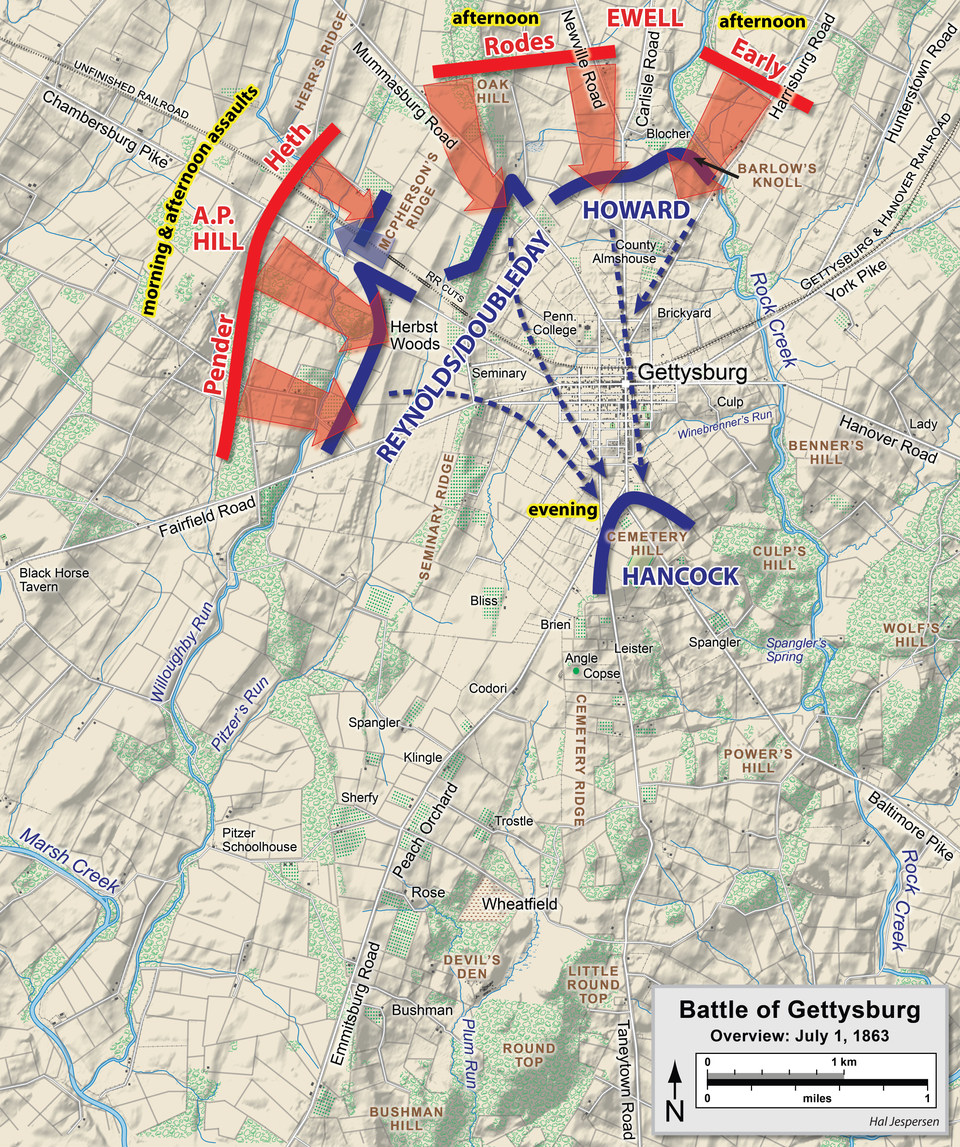
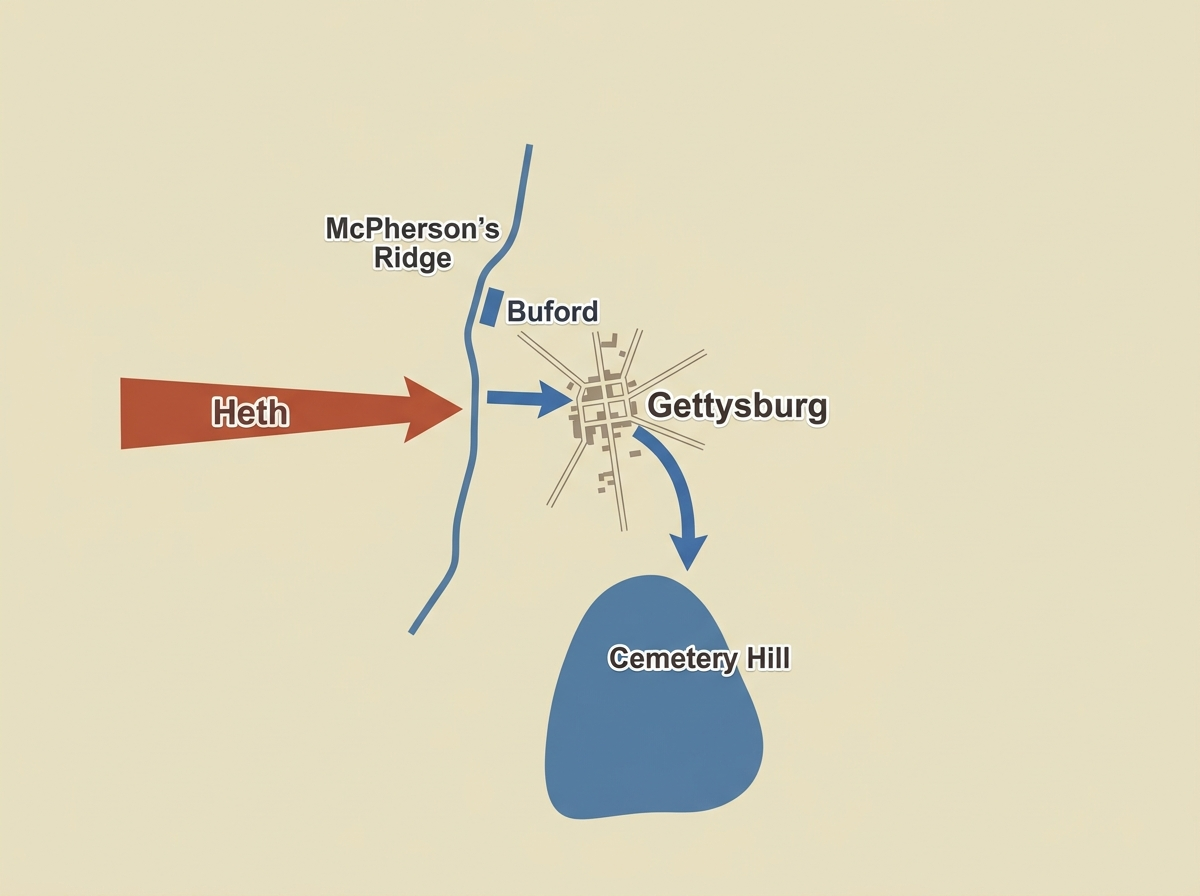
phase-2 war: convert day 1, day 3 & campaign maps to clean matched style
Completes the Gettysburg map conversion — all seven maps now the flat-schematic
prose-matched style (campaign, day1, day2 overview, LRT, wheatfield, culps, day3).

- day1: Buford's stand at McPherson's Ridge, Heth's attack, retreat to Cemetery Hill
- day3: Pickett's Charge from Seminary Ridge to The Angle on Cemetery Ridge
- campaign: Lee up the Shenandoah Valley, Meade shadowing east of the mountains
- Harden battle-map style: color names (BLUE/RUST/RED) are ink instructions,
  never labels (day1 first roll printed 'RUST' as text).
- Fix the three remaining stale 'Hal Jespersen' credits.

diff --git a/src/app/war-civil-war/eastern/gettysburg/s/[section]/section-narrative.tsx b/src/app/war-civil-war/eastern/gettysburg/s/[section]/section-narrative.tsx
@@ -44,7 +44,7 @@ const GB_NARR: Record<string, Narr> = {
       { p: 'They left for the north on June 3rd.', i: true },
       { h: 'Three weeks, three states', eyebrow: 'The march' },
       { p: 'Lee took the Shenandoah Valley north — the same broad green corridor that Stonewall Jackson (South) had ridden up and down for two years. By the third week of June the Army of Northern Virginia was loose in Pennsylvania, an army of seventy thousand men strung out across forty miles of farm country, requisitioning shoes and flour and not, by Lee’s strict orders, burning anything they did not need to.' },
-      { fig: '/war-img/gettysburg-campaign.png', cap: 'The march north: Lee takes the Shenandoah Valley into Pennsylvania while the Army of the Potomac shadows him east of the mountains.', credit: 'Map: Hal Jespersen · CC BY' },
+      { fig: '/war-img/gettysburg-campaign.png', cap: 'The march north: Lee takes the Shenandoah Valley into Pennsylvania while the Army of the Potomac shadows him east of the mountains.', credit: 'Stuff Happened map' },
       { p: 'The Army of the Potomac, under Joseph Hooker (North), moved in parallel — slowly, arguing with Washington the whole way. On June 28th, three days before the battle, Hooker resigned. He was replaced overnight by a corps commander named George Meade (North) who had not been told he was being considered for the job and who accepted it, in his own words, like a man going to his execution.' },
       { p: 'Meade had three days to assemble a defence of the entire North. He had no idea where Lee was. Lee had no idea where Meade was, either: Jeb Stuart (South), the eyes of the Confederate army, had ridden off on a long glory raid east and was, for all practical purposes, missing.' },
       { h: 'A town with ten roads', eyebrow: 'Why here' },
@@ -67,7 +67,7 @@ const GB_NARR: Record<string, Narr> = {
       { p: 'Heth’s (South) division — about seven thousand Confederate infantry — was on the Chambersburg Pike coming east. Heth had been told there might be militia in the town. He did not believe Buford’s cavalry was anywhere near him. He sent two brigades forward without skirmishers.' },
       { h: 'The first shots', eyebrow: '7:30 a.m.' },
       { p: 'Buford’s pickets opened fire from behind a fence rail west of McPherson’s Ridge. The shooting was uneven and confused. Heth deployed for what he thought was a brush with mounted militia. By the time he understood he was fighting two full brigades of regulars, he had committed himself to a fight he could not call off.' },
-      { fig: '/war-img/gettysburg-day1.png', cap: 'July 1: Buford’s cavalry delays Heth west of town until the infantry arrives; by evening the Union is pushed back to Cemetery Hill.', credit: 'Map: Hal Jespersen · CC BY' },
+      { fig: '/war-img/gettysburg-day1.png', cap: 'July 1: Buford’s cavalry delays Heth west of town until the infantry arrives; by evening the Union is pushed back to Cemetery Hill.', credit: 'Stuff Happened map' },
       { h: 'Reynolds is killed', eyebrow: '10:00 a.m.' },
       { p: 'John F. Reynolds (North), the senior Union corps commander, rode onto the field at the head of the I Corps. Buford had held; Reynolds would relieve him. Reynolds was placing the Iron Brigade — Wisconsin and Indiana farmers who had earned their name at South Mountain — when he was shot through the neck. He was dead before he hit the ground.' },
       { p: 'The Union held the ridge through the morning. By afternoon they were outnumbered three to one, three Confederate divisions converging on them from two directions, and they were being driven steadily back through their own forming lines, through the town of Gettysburg, and finally onto a long low cemetery hill south of town.' },
@@ -128,7 +128,7 @@ const GB_NARR: Record<string, Narr> = {
       { p: 'He chose Pickett’s (South) division, freshly arrived and not yet bloodied, plus two more divisions of Longstreet’s corps. Twelve thousand five hundred men. The target was a stand of trees on Cemetery Ridge, three-quarters of a mile away across open ground.' },
       { h: 'The cannonade', eyebrow: '1:00 p.m.' },
       { p: 'The largest artillery bombardment ever conducted on the North American continent began at one in the afternoon and lasted nearly two hours. One hundred and fifty Confederate guns against eighty Union guns. The smoke was so thick the Confederate artillerists could not see whether they were hitting anything. Most of their shells overshot. The Union guns went quiet — partly to conserve ammunition, partly to let the Confederates think they had been silenced.' },
-      { fig: '/war-img/gettysburg-day3.png', cap: 'July 3: Pickett’s Charge crosses three-quarters of a mile of open ground at the Union centre — the angle.', credit: 'Map: Hal Jespersen · CC BY' },
+      { fig: '/war-img/gettysburg-day3.png', cap: 'July 3: Pickett’s Charge crosses three-quarters of a mile of open ground at the Union centre — the angle.', credit: 'Stuff Happened map' },
       { h: 'The charge', eyebrow: '3:00 p.m.' },
       { p: 'They came out of the woods on Seminary Ridge in three long parade-ground lines, a mile across. They marched at quick step for the first half-mile and then double-quick for the rest. The Union guns reopened at four hundred yards. Canister at two hundred. Rifle fire at one hundred.' },
       { p: 'A few hundred Confederates reached the wall at the angle, a stone fence at the centre of the Union line. They fought there hand-to-hand for about ten minutes. Then they were either killed, captured, or turned around and started walking back across the same field they had just crossed.' },

diff --git a/map-prompts/war/gettysburg.md b/map-prompts/war/gettysburg.md
@@ -10,7 +10,7 @@ arrows, very few labels. Generated by `scripts/generate-war-maps.mjs` (parses
 **CRITICAL BATTLE-MAP RULES:**
 
 1. **This is a clean, flat, schematic battle map — NOT a topographic or terrain map.** Draw NO contour lines, NO hill shading, NO relief, NO textured ground, NO forest stippling, NO elevation tinting. The base is a single flat pale tan (#e7ddc8) land area and, where water is shown, a single flat light blue. Nothing else fills the background.
-2. **Use side colors for forces.** Union (United States / North) positions, lines, and arrows are BLUE (#1d4ed8). Confederate (South) positions, lines, and arrows are RUST RED (#b44d3b). Use no other strong colors. A force line is a simple thick colored band or arc; a movement is a bold tapered arrow in that side's color.
+2. **Use side colors for forces.** Union (United States / North) positions, lines, and arrows are BLUE (#1d4ed8). Confederate (South) positions, lines, and arrows are RUST RED (#b44d3b). Use no other strong colors. A force line is a simple thick colored band or arc; a movement is a bold tapered arrow in that side's color. The words BLUE, RUST, and RED name the ink to use — they are instructions to you, NEVER text to print. Never render a color name as a label anywhere on the map.
 3. **Very few labels — at most SIX, large and legible.** Each label is a bare proper name only (e.g. "Cemetery Hill"), in a clean sans-serif, in dark ink, with a thin white halo so it stays readable over the map. Never write a sentence on the map. Never label more than six things.
 4. **No road network, no creeks, no railroads, no county lines** unless a single one is explicitly named below. A battlefield is shown by the two armies' shapes and the arrows between them, not by terrain detail.
 5. **Spell every label EXACTLY as written below. Invent no words, no extra labels, no annotations.** The only text on the image is the labels listed for that map — nothing more.
@@ -71,23 +71,23 @@ Three labels only: Culp's Hill, Greene, Ewell. Nothing else.
 
 A clean schematic march map of the road to Gettysburg, June 1863 — Confederate Virginia up into southern Pennsylvania.
 
-Draw a simple flat tan land area. Show a single soft gray mountain band running diagonally (the Blue Ridge / South Mountain ridge line) from lower-center up toward the top. Place a small town marker labeled "Gettysburg" in the north (upper area). Place a small marker labeled "Washington" in the southeast (lower right). Show the Potomac River as one thin light-blue line the armies cross.
+Draw a simple flat tan land area. Show a single soft gray mountain band running diagonally (the Blue Ridge / South Mountain ridge line) from lower-center up toward the top. West of that mountain band, label the open corridor "Shenandoah Valley" in gray. Place a small town marker labeled "Gettysburg" in the north (upper area). Place a small marker labeled "Washington" in the southeast (lower right). Show the Potomac River as one thin light-blue line the armies cross.
 
 Two bold movement arrows running south-to-north:
-- A RUST arrow on the WEST side of the mountains (the valley), curving north and then east toward Gettysburg, labeled "Lee".
+- A RUST arrow on the WEST side of the mountains, up the Shenandoah Valley, curving north and then east toward Gettysburg, labeled "Lee".
 - A BLUE arrow on the EAST side of the mountains, staying between the rust arrow and Washington, also moving north toward Gettysburg, labeled "Meade".
 
-Up to six labels: Gettysburg, Washington, Potomac, Lee, Meade. Nothing else.
+Six labels only: Gettysburg, Washington, Potomac, Shenandoah Valley, Lee, Meade. Nothing else.
 
 ## Map gettysburg-day1
 
 A clean schematic battle map of Gettysburg on July 1, 1863 — the opening day.
 
-Place a small town marker labeled "Gettysburg" in the center. Just west of it, draw a thin BLUE defensive line on a low ridge, labeled "McPherson's Ridge", held by a small blue cavalry symbol. South of the town draw a BLUE hill position labeled "Cemetery Hill".
+Place a small town marker labeled "Gettysburg" in the center. Just west of it, draw a thin BLUE defensive line on a low ridge, labeled "McPherson's Ridge", with a small blue marker on it labeled "Buford" — the dismounted cavalry making the morning stand. South of the town draw a BLUE hill position labeled "Cemetery Hill".
 
-Show the Confederate attack as TWO bold RUST arrows converging on the town from the west and the north, labeled "Heth" (from the west, against McPherson's Ridge). Show one short BLUE arrow falling back from McPherson's Ridge south to Cemetery Hill, indicating the Union retreat at evening.
+Show the Confederate attack as one bold rust-red arrow driving east into McPherson's Ridge from the west, labeled only "Heth". Show one short blue arrow falling back from the ridge, through the town, south to Cemetery Hill — the Union retreat at evening.
 
-Up to six labels: Gettysburg, McPherson's Ridge, Cemetery Hill, Heth. Nothing else.
+Five labels only: Gettysburg, McPherson's Ridge, Buford, Cemetery Hill, Heth. Nothing else.
 
 ## Map gettysburg-day3
 
